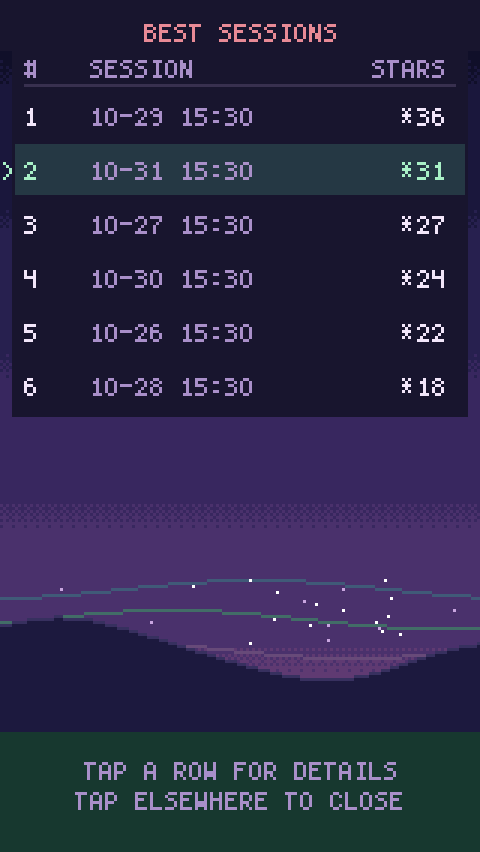
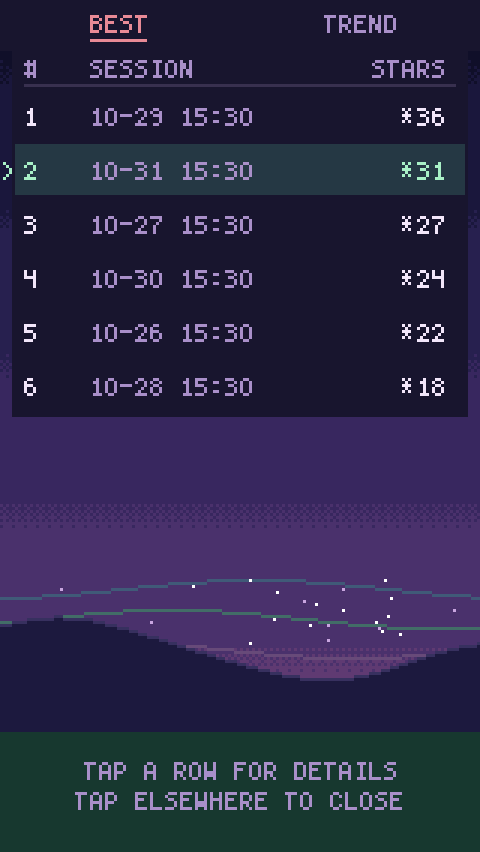
docs: refresh the Ranks and results-card screenshots
BEST page with tabs; the training card with coherence and the 7-day strip.

Changed region(s): [[0.4688, 0.0, 0.8125, 0.061], [0.1875, 0.0, 0.4062, 0.061]]

diff --git a/app/src/test/kotlin/com/hrvballoon/ui/ScreenshotDump.kt b/app/src/test/kotlin/com/hrvballoon/ui/ScreenshotDump.kt
@@ -63,7 +63,9 @@ class ScreenshotDump {
         )
         val ranks = RankScene(W, H, TestText.scene)
         save("ranks", ranks.render(records, 1, 5_000))
-        save("result", ranks.renderResult(records[1], 2, records.size, records[0], 5_000, 212))
+        val shown = records[1].copy(coherence = 2.7)
+        val weekAt = listOf(2.1, 2.8, 1.9, 3.4, 4.1, 2.5, 2.7).mapIndexed { i, c -> TrendPoint(shown.startMs - (6 - i) * day, 900_000, c) }
+        save("result", ranks.renderResult(shown, 2, records.size, records[0], 5_000, 212, week = coherenceTrend(weekAt, shown.startMs, ZoneOffset.UTC, TrendPeriod.D7)))
 
         // 2.8: the coherence strip and the TREND page, for the owner's approval.
         val now = Instant.parse("2026-11-22T12:00:00Z").toEpochMilli()
